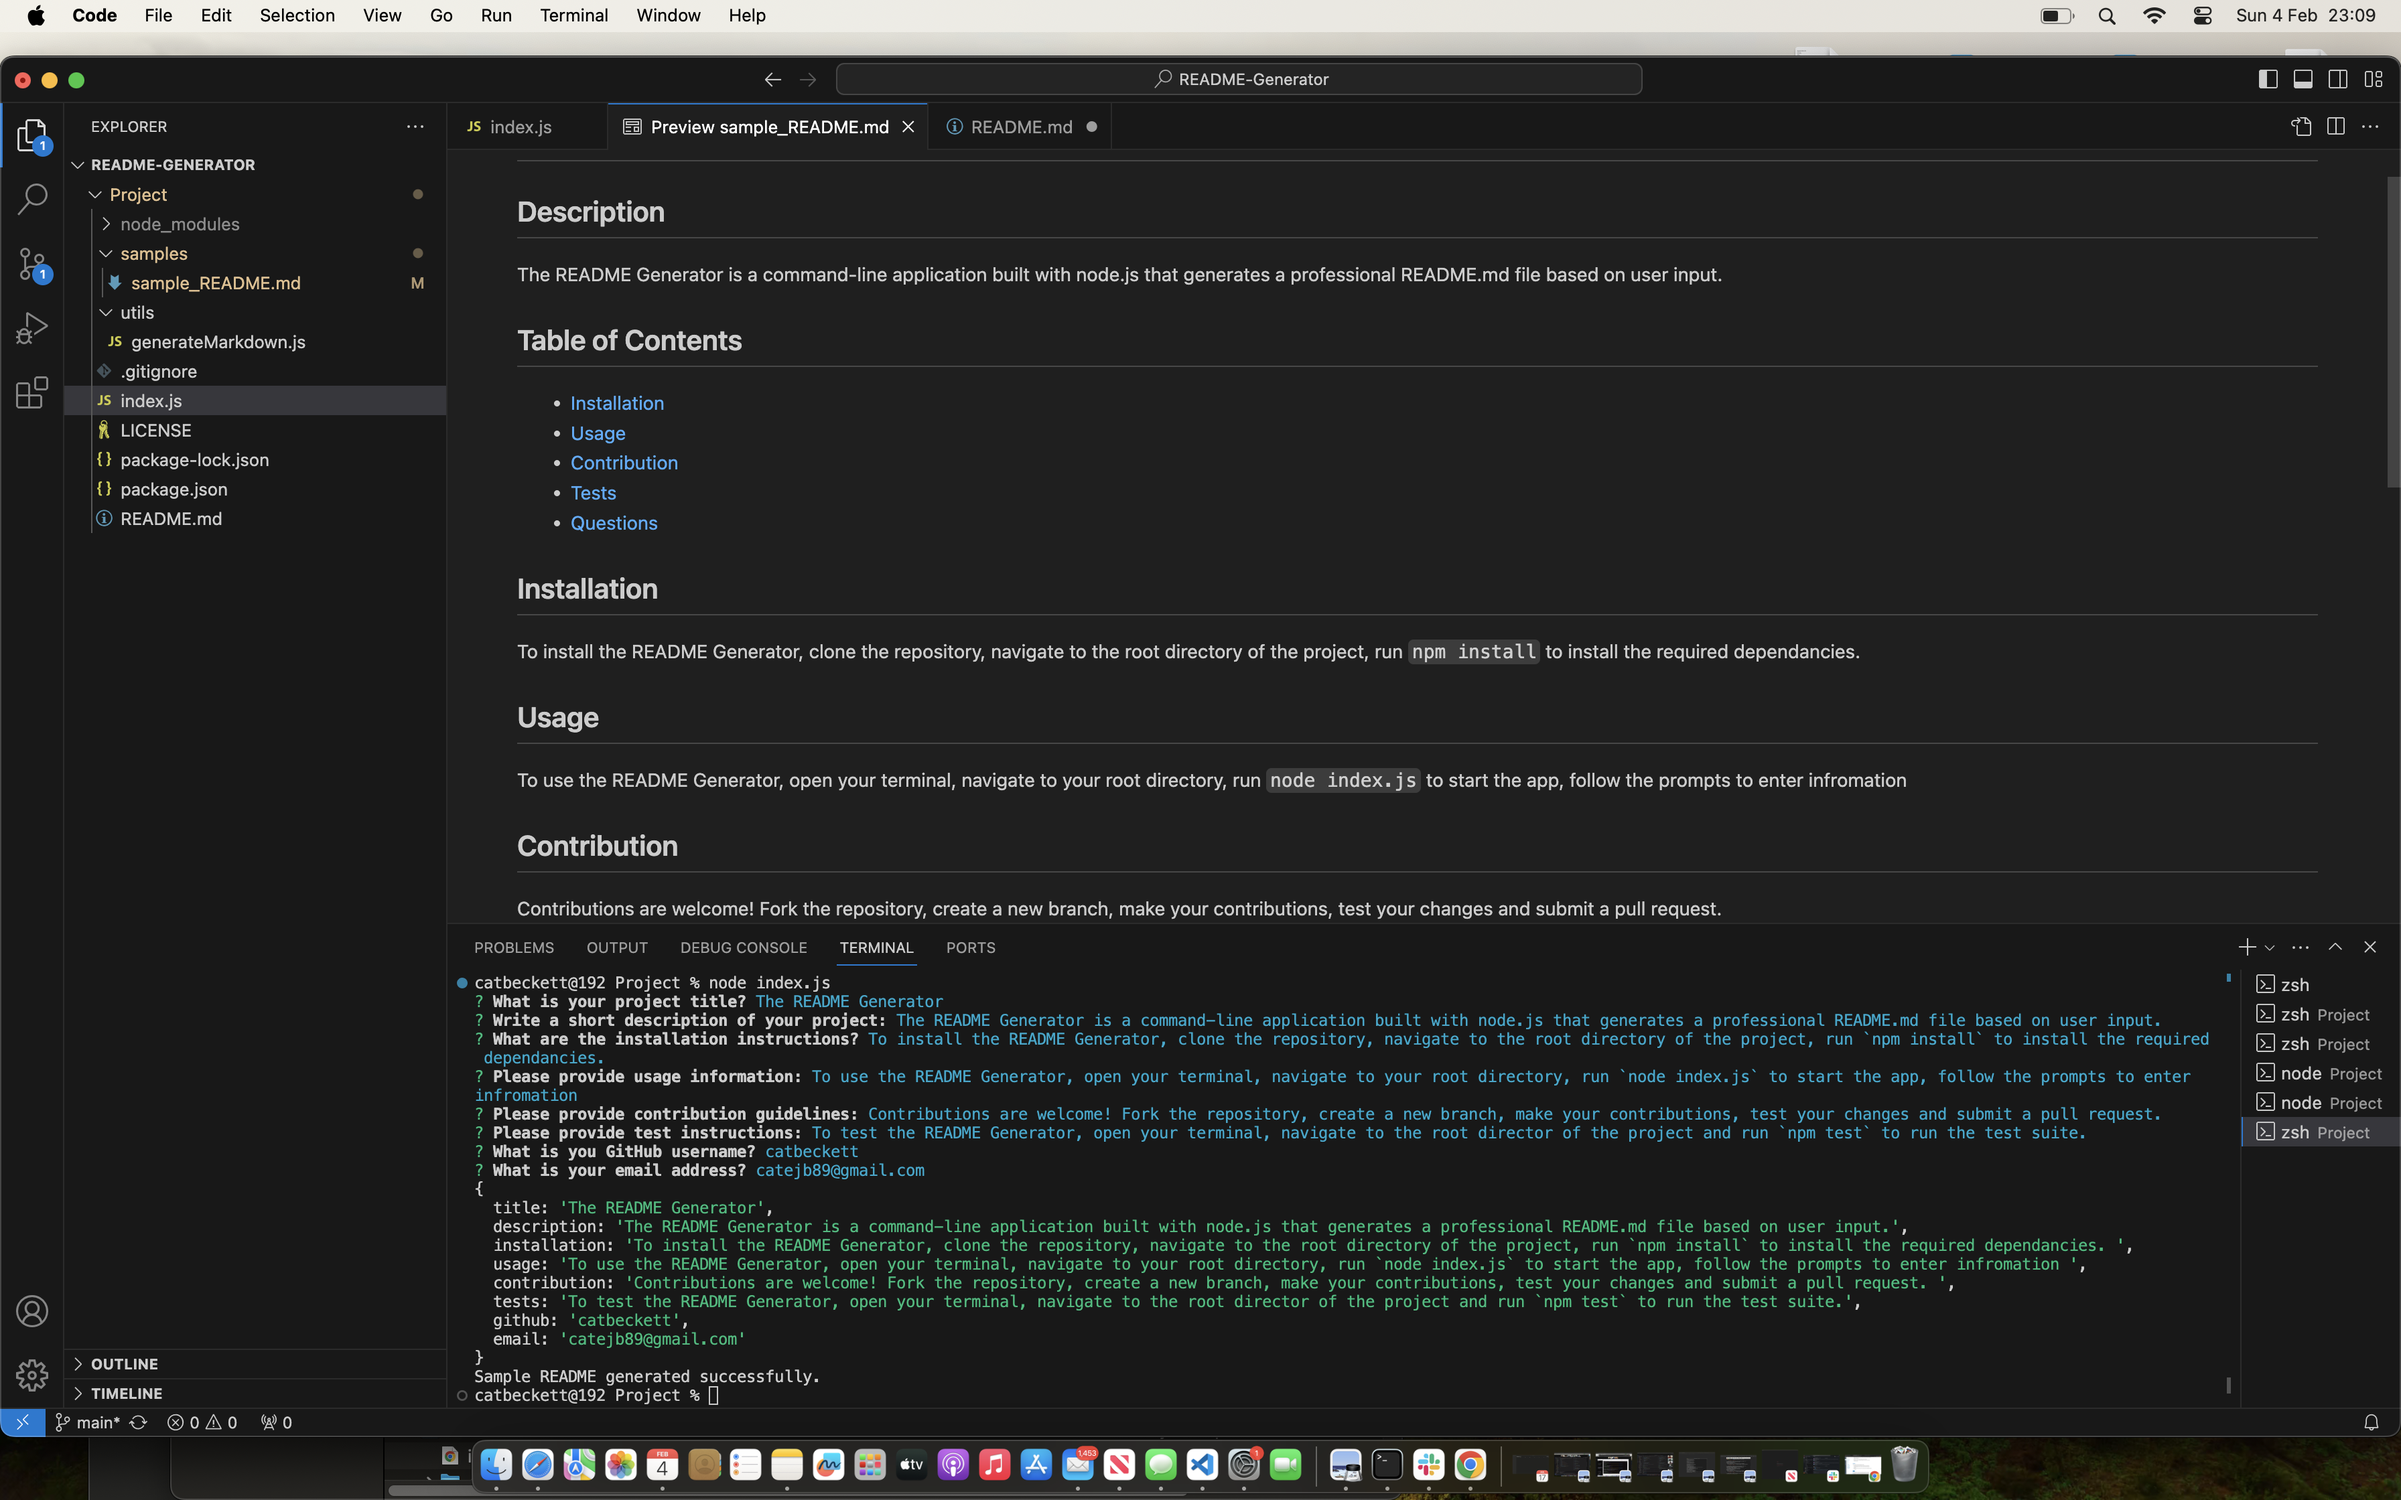
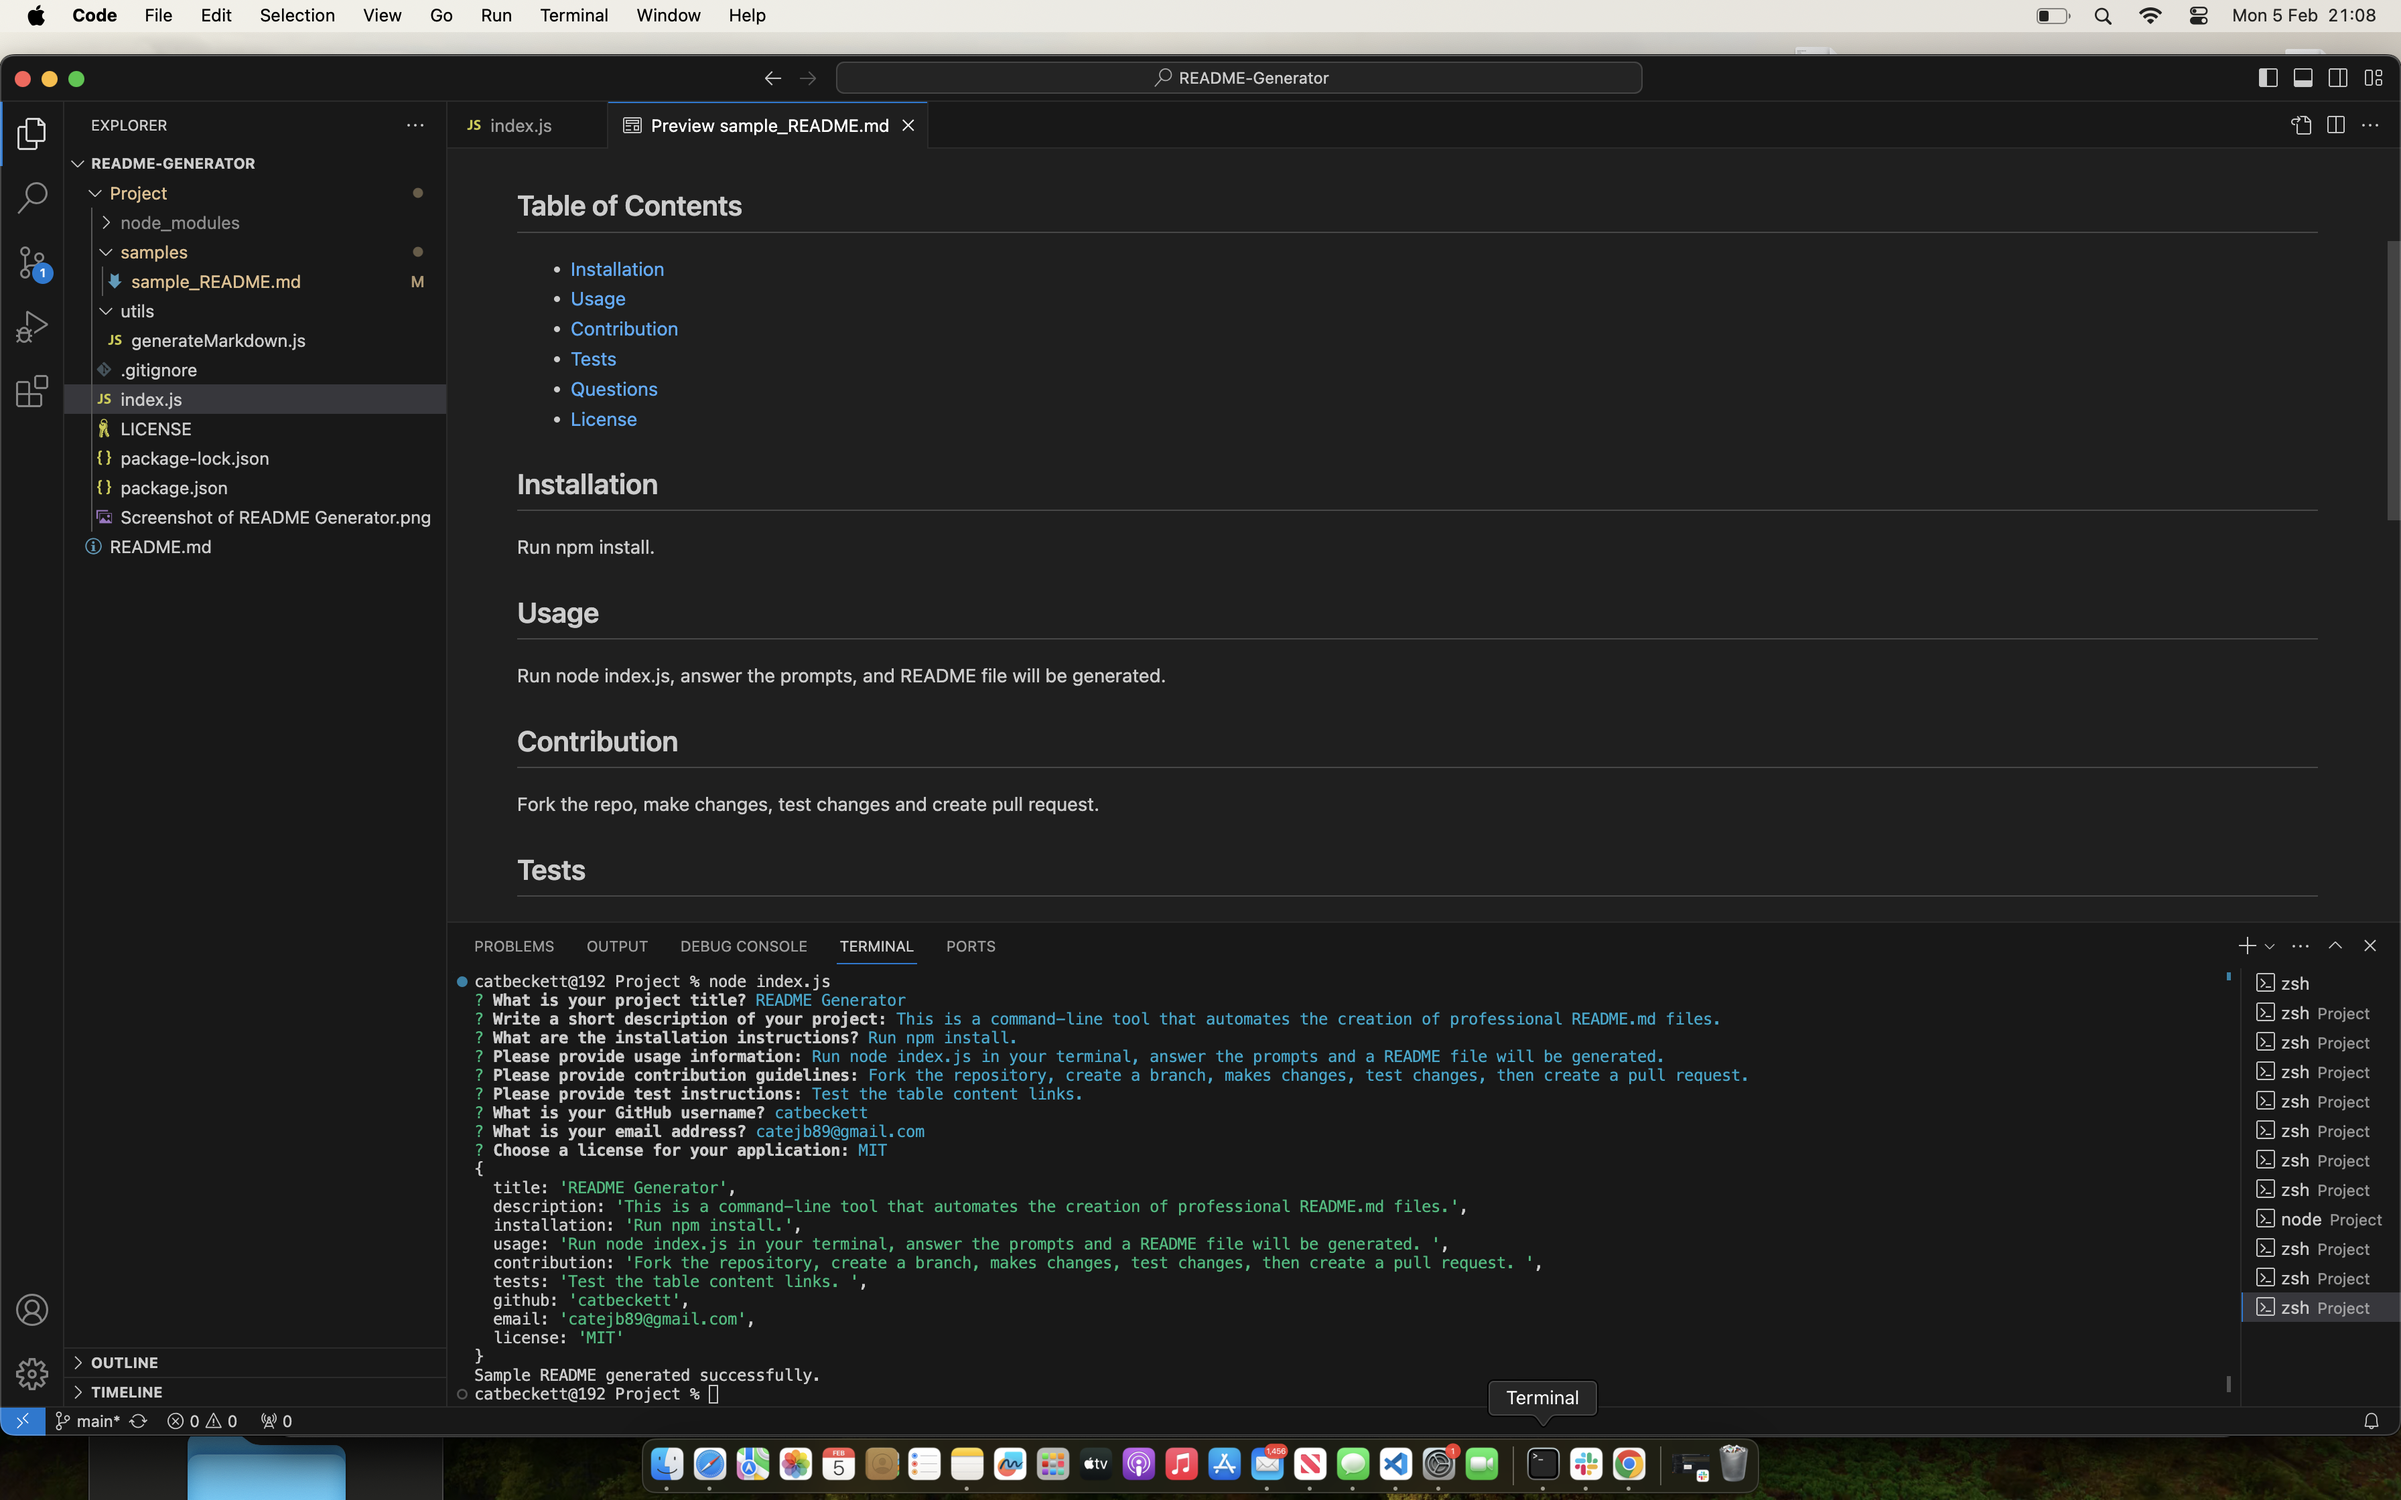
Update project files and README with changes

diff --git a/Project/samples/sample_README.md b/Project/samples/sample_README.md
@@ -1,11 +1,11 @@
 
-# 1
+# README Generator
 
 [![License: MIT](https://img.shields.io/badge/License-MIT-yellow.svg)](https://opensource.org/licenses/MIT) 
 
 ## Description
 
-2
+This is a command-line tool that automates the creation of professional README.md files.
 
 ## Table of Contents
 
@@ -18,25 +18,25 @@
 
 ## Installation
 
-3
+Run npm install.
 
 ## Usage
 
-4
+Run node index.js in your terminal, answer the prompts and a README file will be generated. 
 
 ## Contribution
 
-5
+Fork the repository, create a branch, makes changes, test changes, then create a pull request. 
 
 ## Tests
 
-6
+Test the table content links. 
 
 ## Questions
 
 For any questions or feedback, feel free to contact me:
-- GitHub: [7](https://github.com/7)
-- Email: 8
+- GitHub: [catbeckett](https://github.com/catbeckett)
+- Email: catejb89@gmail.com
 
 ## License
 

diff --git a/README.md b/README.md
@@ -3,7 +3,7 @@
 ## Description
 
 The README Generator is a command-line application built with Node.js that dynamically generates a professional README.md file based on user input. It simplifies the process of creating a high-quality README by automating the generation of sections such as Description, Installation, Usage, Contribution, Tests, and Questions. With the README Generator, developers can quickly create informative and well-structured README files, saving time and ensuring consistency across projects.
-Please see a recording of the application in use here: https://app.screencastify.com/v3/watch/j8lZg6cWCFhx5nF5L53z 
+Please see a recording of the application in use here:  https://app.screencastify.com/v3/watch/ESozFglbZKIOqv92eqHm
 
 ## Table of Contents
 
